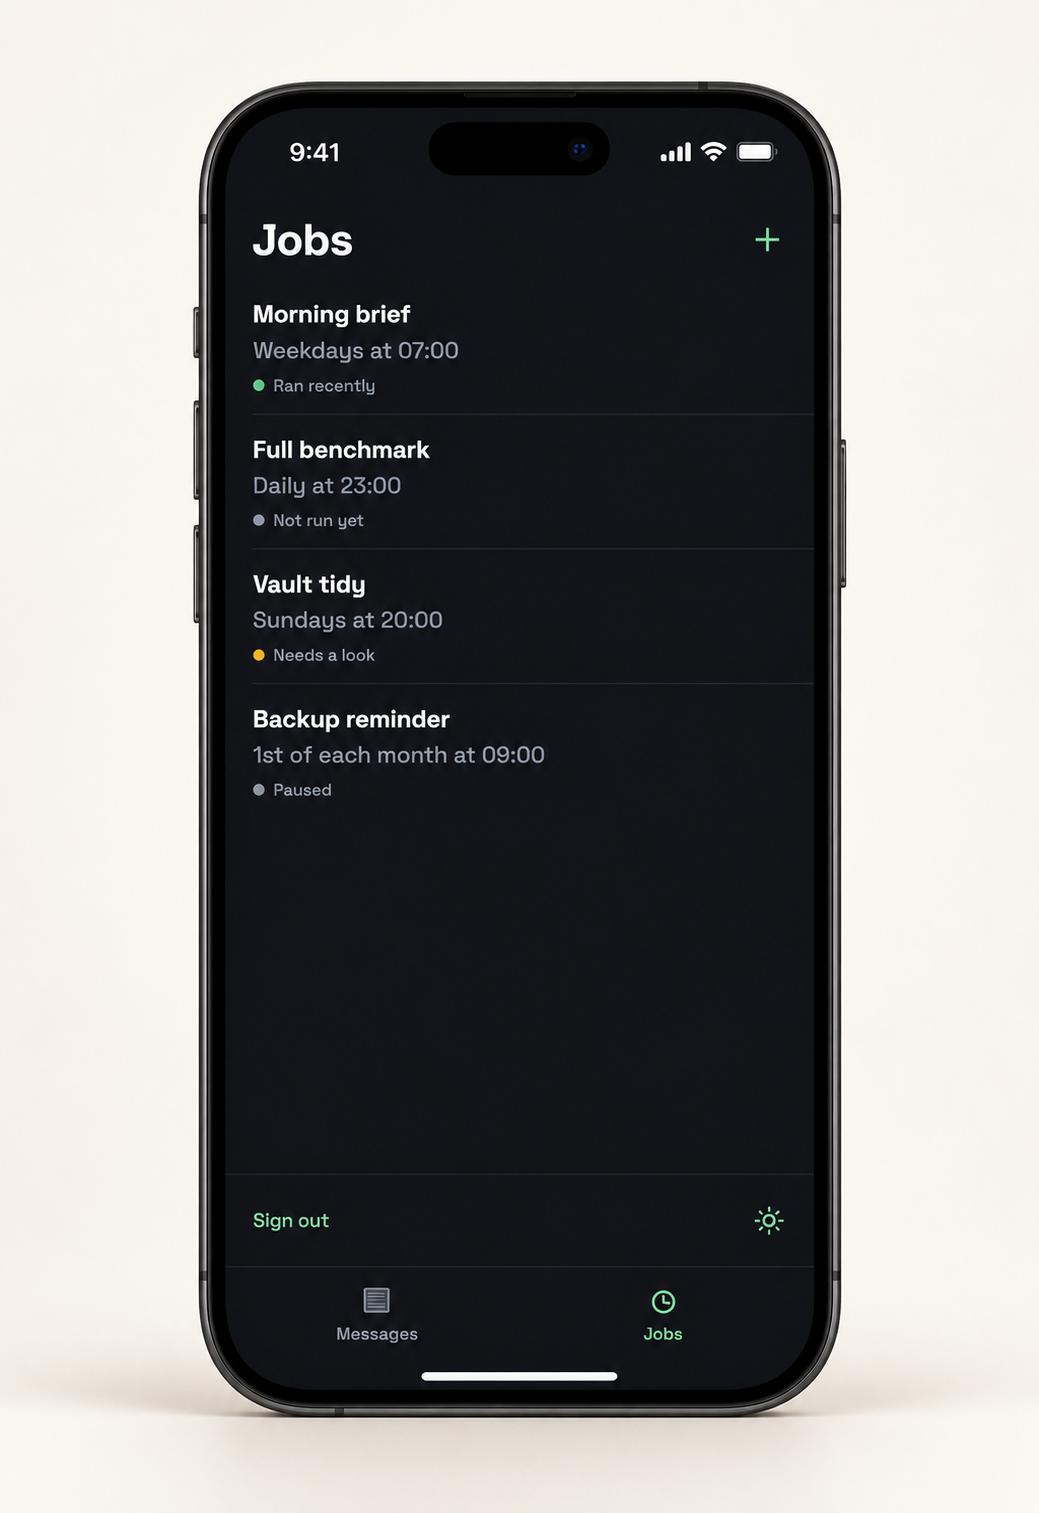
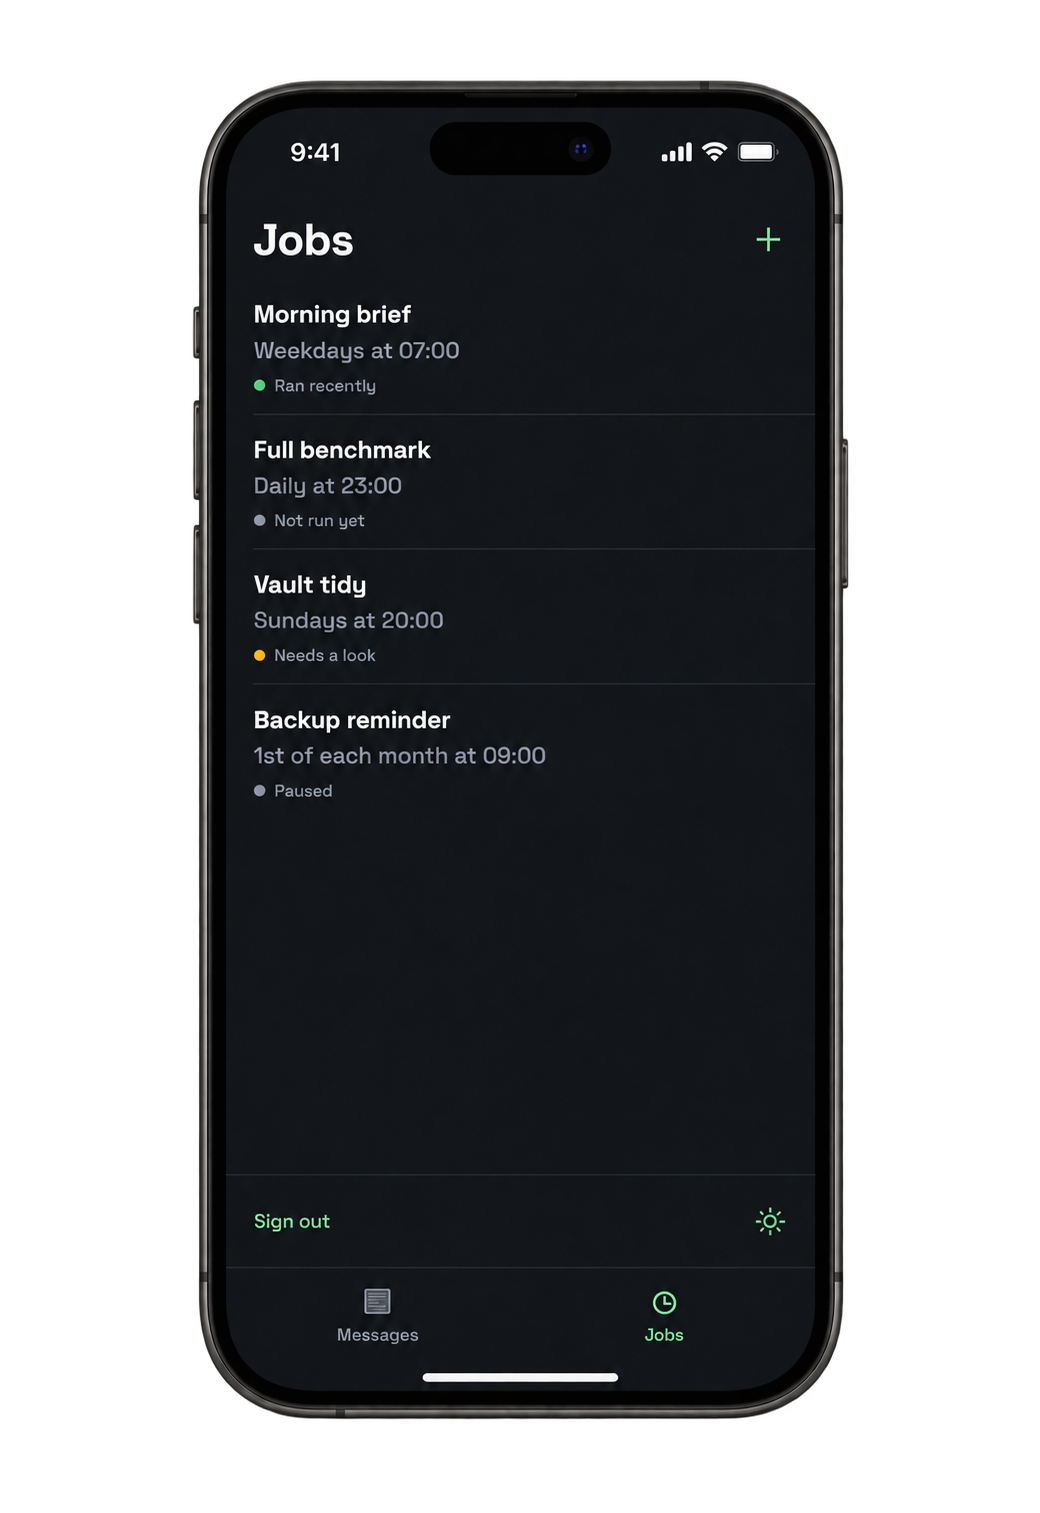
Use transparent iPhone Jobs and chat mockups

diff --git a/scripts/check_public_content.py b/scripts/check_public_content.py
@@ -62,8 +62,8 @@ REVIEWED_ASSETS = {
[7 lines of base64/hex data omitted]
 }
 
 
@@ -80,8 +80,19 @@ REVIEWED_HISTORY = {
 }
 
 
-def reviewed_asset(name: str, body: bytes) -> bool:
-    return REVIEWED_ASSETS.get(name) == hashlib.sha256(body).hexdigest()
+# Previously published assets remain reviewed for history scans only. Current files must match
+# their current pin; a retired asset is not approved for reintroduction into the working tree.
+REVIEWED_ASSET_HISTORY = {
[2 lines of base64/hex data omitted]
+}
+
+
+def reviewed_asset(name: str, body: bytes, *, history: bool = False) -> bool:
+    digest = hashlib.sha256(body).hexdigest()
+    return REVIEWED_ASSETS.get(name) == digest or (
+        history and digest in REVIEWED_ASSET_HISTORY.get(name, set())
+    )
 
 
 @dataclass(frozen=True)
@@ -252,8 +263,8 @@ def inspect_objects(root: Path, revs: list[str]) -> tuple[list[Finding], int]:
                 if forbidden:
                     findings.append(Finding(where, 1, forbidden.category))
                     continue
-                if path in REVIEWED_ASSETS:
-                    if not reviewed_asset(path, body):
+                if path in REVIEWED_ASSETS or path in REVIEWED_ASSET_HISTORY:
+                    if not reviewed_asset(path, body, history=True):
                         findings.append(Finding(where, 1, "reviewed asset changed; review and update its pin"))
                     continue
                 if b"\x00" in body[:8192]:

diff --git a/tests/test_public_content.py b/tests/test_public_content.py
@@ -1,8 +1,10 @@
 import importlib.util
+import hashlib
 from pathlib import Path
 import sys
 import tempfile
 import unittest
+from unittest.mock import patch
 
 SCRIPT = Path(__file__).resolve().parents[1] / "scripts/check_public_content.py"
 SPEC = importlib.util.spec_from_file_location("public_guard", SCRIPT)
@@ -129,6 +131,22 @@ class PublicContentTests(unittest.TestCase):
 
 
 class ReviewedAssetTests(unittest.TestCase):
+    def test_historical_asset_pin_does_not_approve_current_or_modified_files(self):
+        name = "assets/retired-example.png"
+        original = b"\x00reviewed example asset"
+        digest = hashlib.sha256(original).hexdigest()
+        with patch.dict(guard.REVIEWED_ASSET_HISTORY, {name: {digest}}):
+            self.assertTrue(guard.reviewed_asset(name, original, history=True))
+            self.assertFalse(guard.reviewed_asset(name, original))
+            self.assertFalse(guard.reviewed_asset(name, original + b"modified", history=True))
+            self.assertFalse(guard.reviewed_asset("assets/other.png", original, history=True))
+            with tempfile.TemporaryDirectory() as tmp:
+                root = Path(tmp)
+                path = root / name
+                path.parent.mkdir(parents=True)
+                path.write_bytes(original)
+                self.assertTrue(guard.inspect_file(path, root))
+
     def test_reviewed_font_passes_only_with_its_pinned_content(self):
         name = next(iter(guard.REVIEWED_ASSETS))
         with tempfile.TemporaryDirectory() as tmp:
